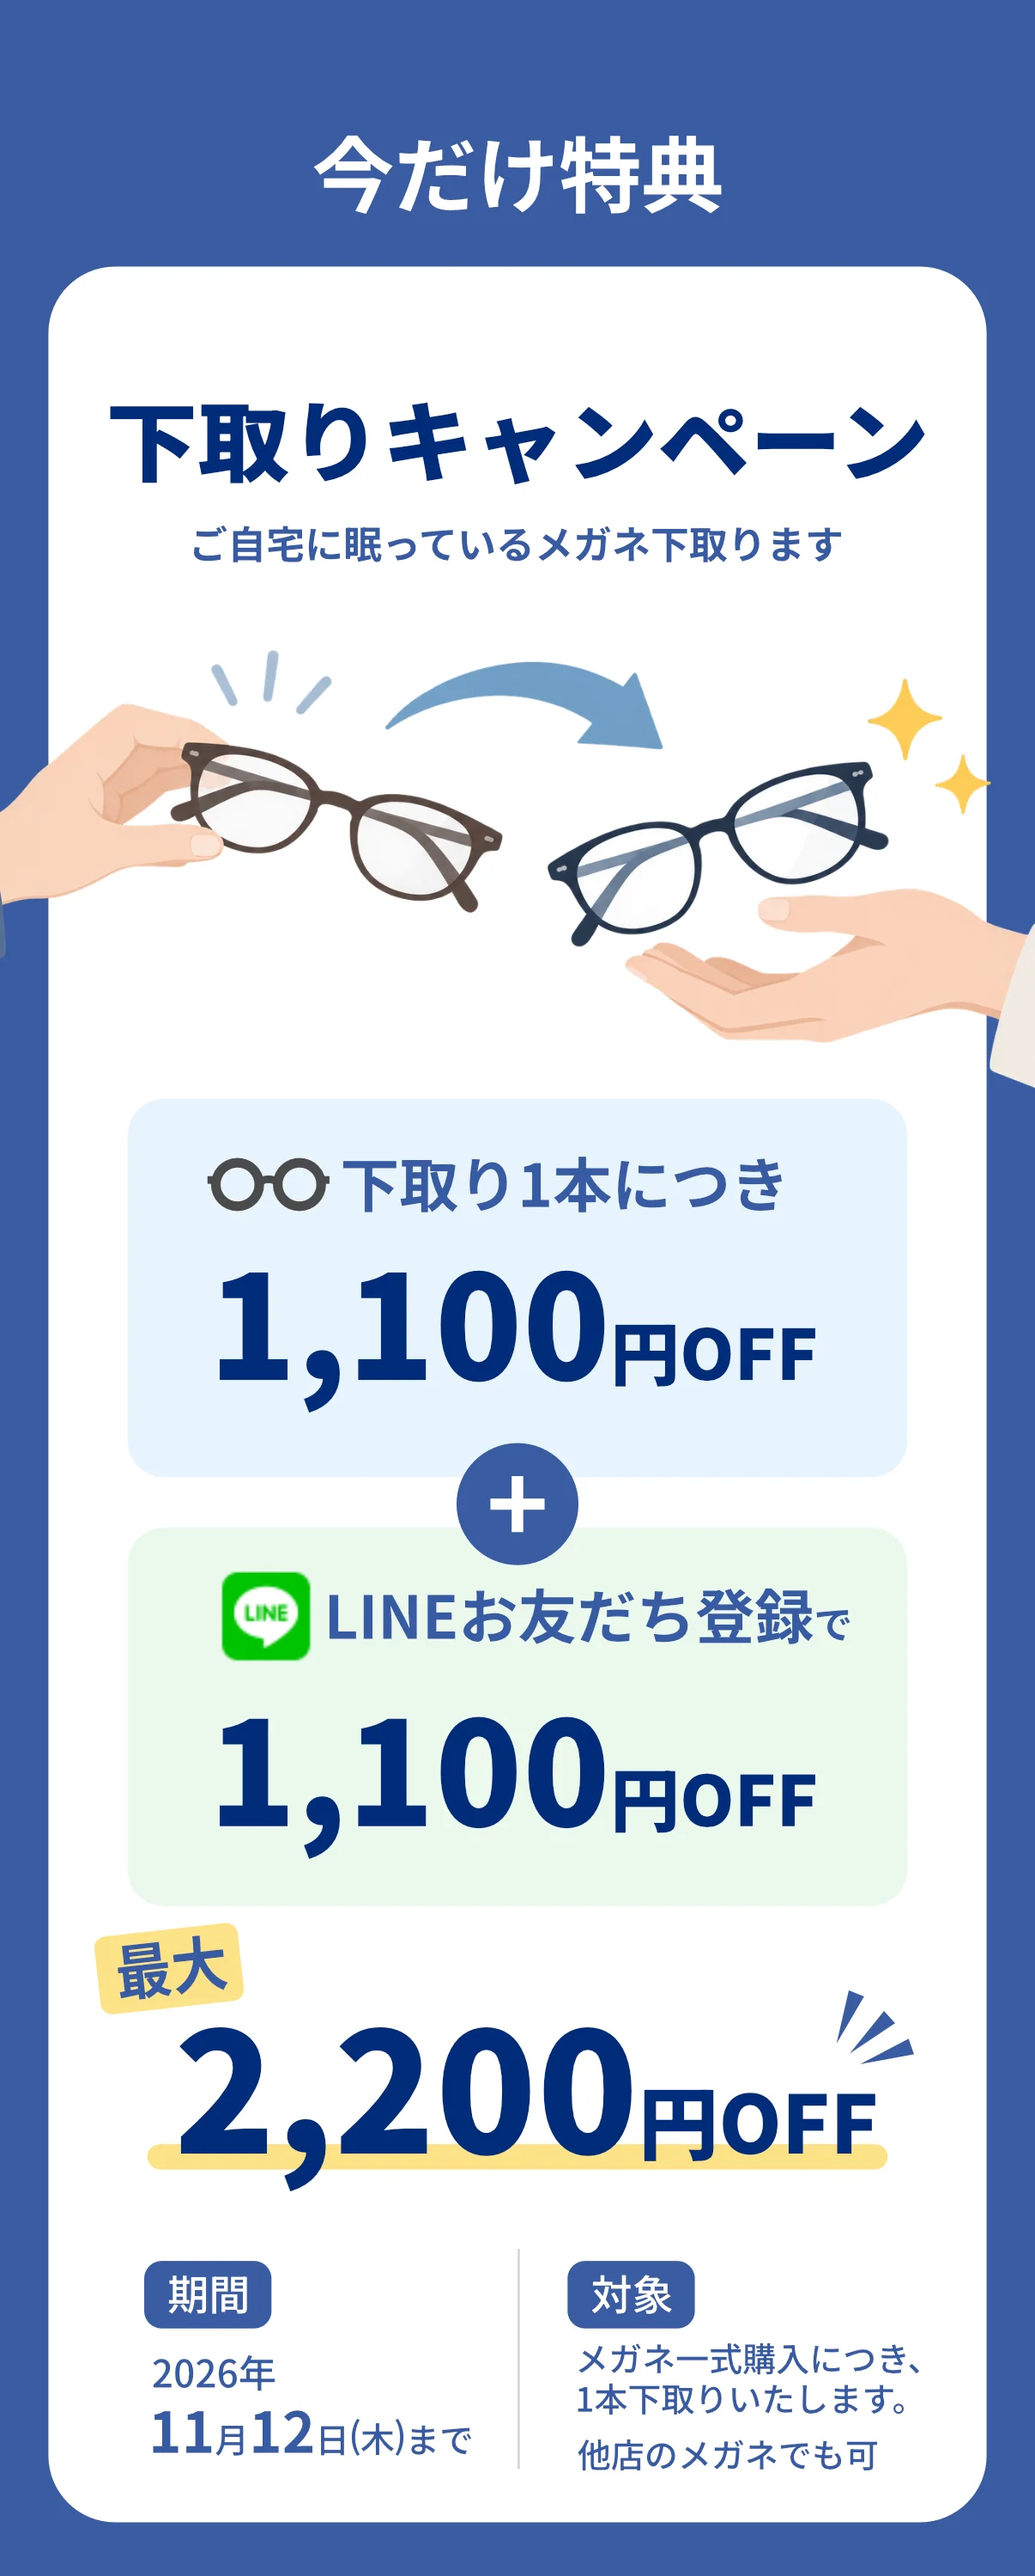
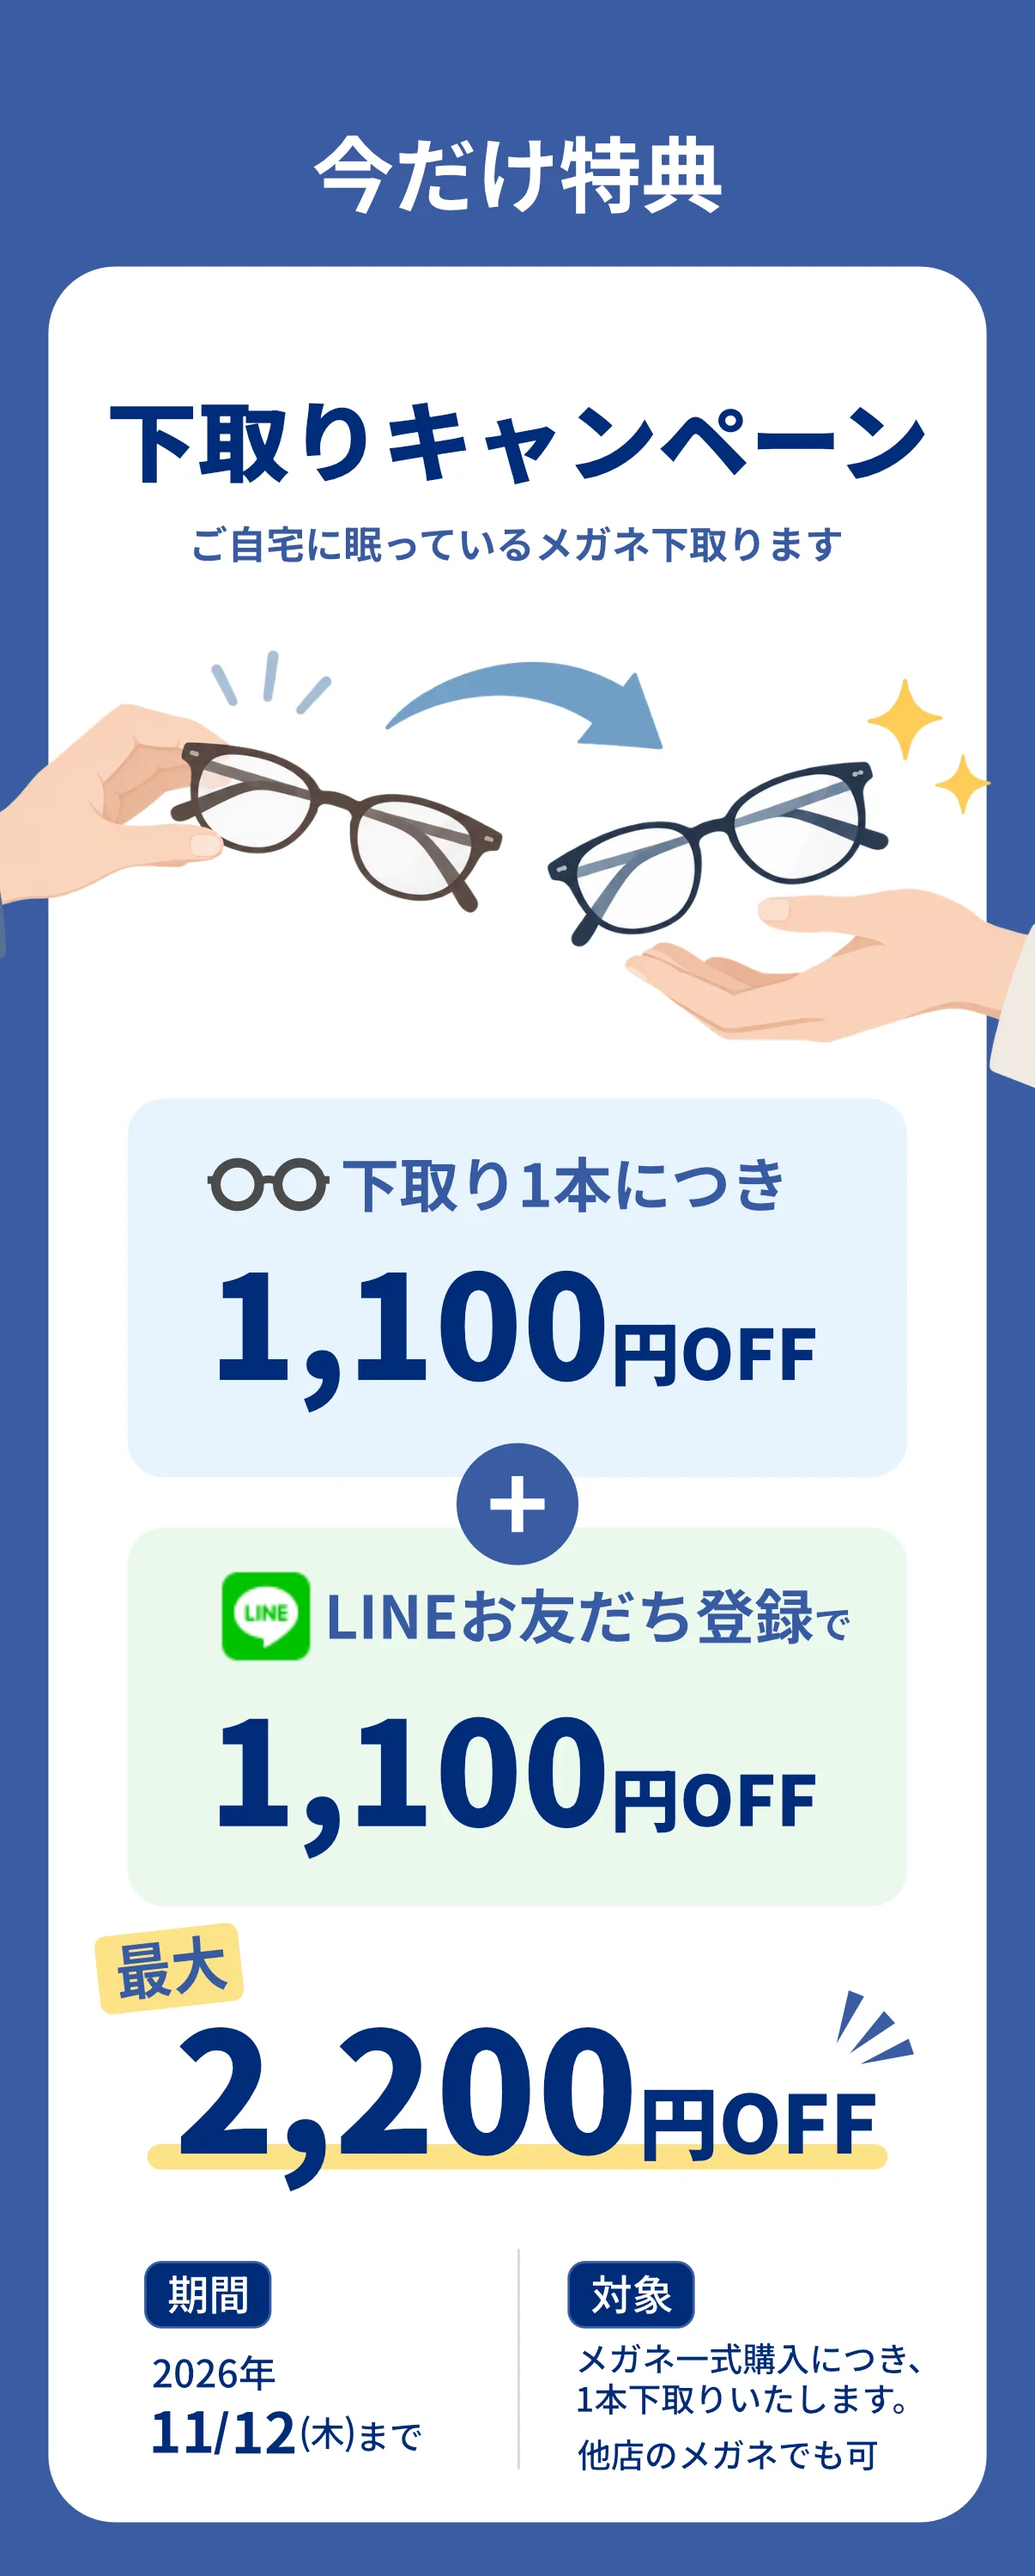
今だけ特典の画像を更新(期間の日付表記を11/12(木)に)

Changed region(s): [[0.5522, 0.868, 0.859, 0.961], [0.1227, 0.868, 0.4602, 0.961]]

diff --git a/index.html b/index.html
@@ -983,7 +983,7 @@
     </section>
 
     <section class="tokuten-section" id="sec-tokuten">
-      <img loading="lazy" decoding="async" class="tokuten-section-img reveal" src="img/tokuten-section.webp" width="1206" height="3000" alt="今だけ特典 メガネの下取りキャンペーン 下取り1本につき1,100円OFF こんなメガネも下取ります(ご自宅に眠っているメガネ・古いメガネ・壊れているメガネ・他店で購入したメガネ) さらにLINEお友だち登録で1,100円OFF 期間:2026年11月12日(木)まで 詳細:メガネ一式ご購入につき1本下取りいたします。">
+      <img loading="lazy" decoding="async" class="tokuten-section-img reveal" src="img/tokuten-section.webp" width="1206" height="3000" alt="今だけ特典 メガネの下取りキャンペーン 下取り1本につき1,100円OFF こんなメガネも下取ります(ご自宅に眠っているメガネ・古いメガネ・壊れているメガネ・他店で購入したメガネ) さらにLINEお友だち登録で1,100円OFF 期間:2026年11/12(木)まで 詳細:メガネ一式ご購入につき1本下取りいたします。">
     </section>
 
     <section class="trade-section" id="sec-trade">

diff --git a/wp-deploy/page-lp-shitadori2026.php b/wp-deploy/page-lp-shitadori2026.php
@@ -932,7 +932,7 @@ $lp_assets = get_stylesheet_directory_uri() . '/lp/assets/shitadori2026/img';
     </section>
 
     <section class="tokuten-section" id="sec-tokuten">
-      <img loading="lazy" decoding="async" class="tokuten-section-img reveal" src="<?php echo $lp_assets; ?>/tokuten-section.webp?v=88120f62" width="1206" height="3000" alt="今だけ特典 メガネの下取りキャンペーン 下取り1本につき1,100円OFF こんなメガネも下取ります(ご自宅に眠っているメガネ・古いメガネ・壊れているメガネ・他店で購入したメガネ) さらにLINEお友だち登録で1,100円OFF 期間:2026年11月12日(木)まで 詳細:メガネ一式ご購入につき1本下取りいたします。">
+      <img loading="lazy" decoding="async" class="tokuten-section-img reveal" src="<?php echo $lp_assets; ?>/tokuten-section.webp?v=4105e4db" width="1206" height="3000" alt="今だけ特典 メガネの下取りキャンペーン 下取り1本につき1,100円OFF こんなメガネも下取ります(ご自宅に眠っているメガネ・古いメガネ・壊れているメガネ・他店で購入したメガネ) さらにLINEお友だち登録で1,100円OFF 期間:2026年11/12(木)まで 詳細:メガネ一式ご購入につき1本下取りいたします。">
     </section>
 
     <section class="trade-section" id="sec-trade">
